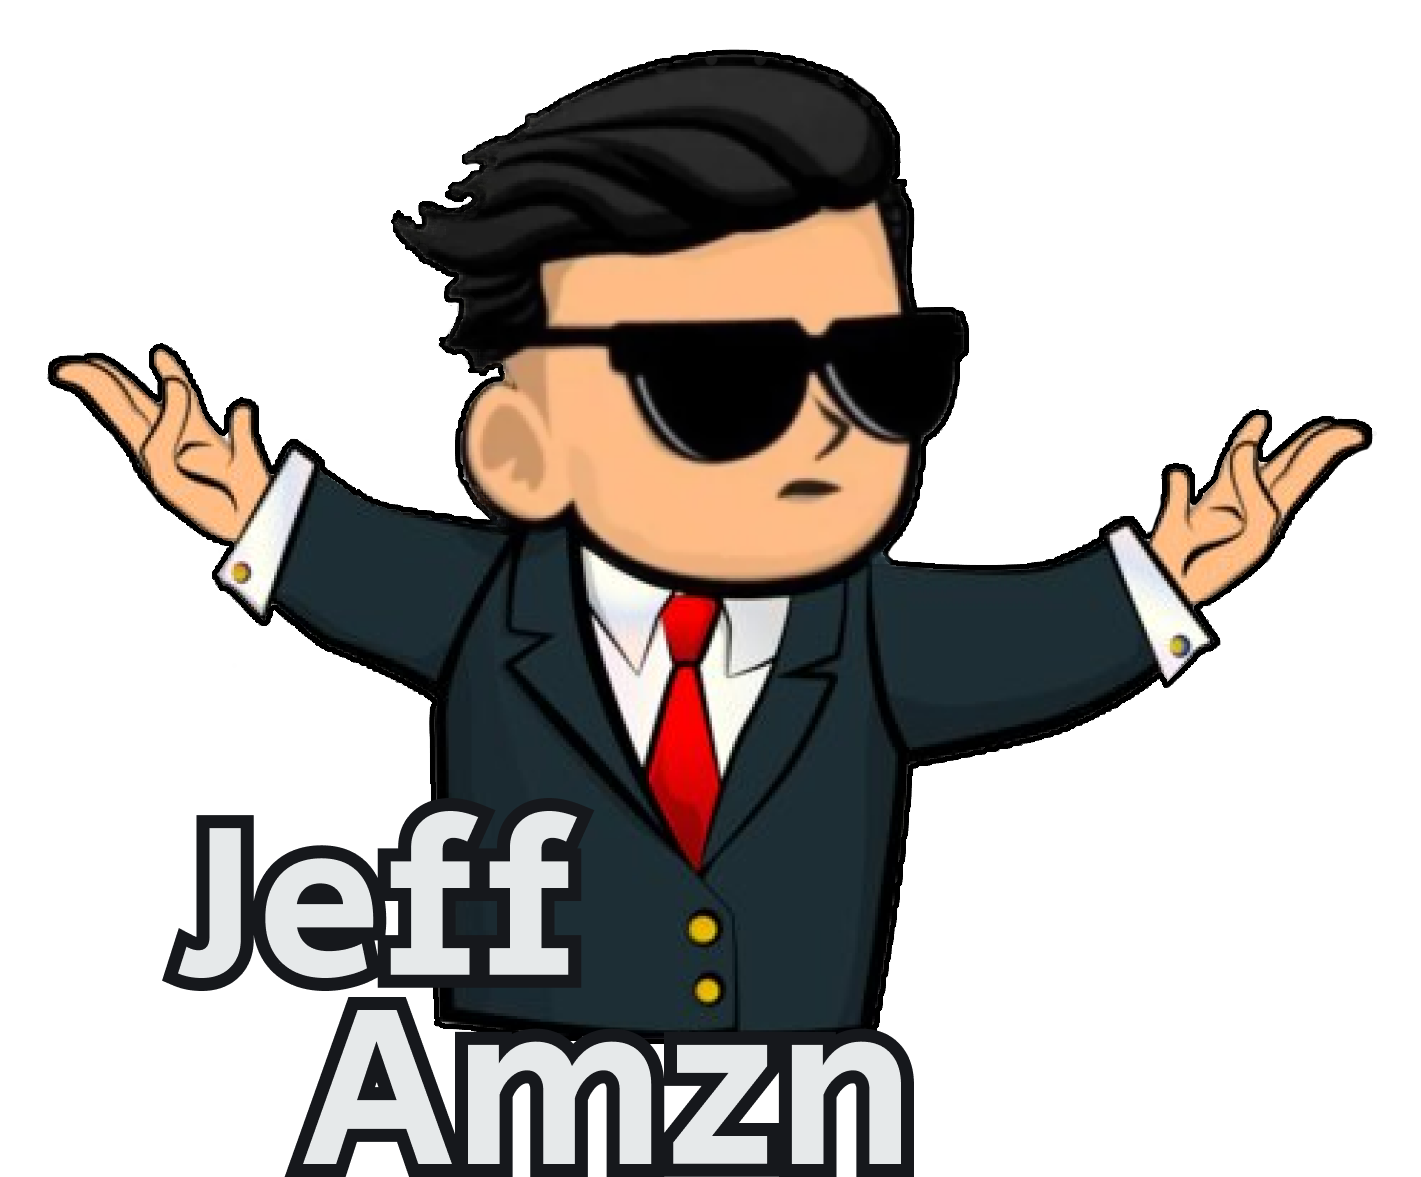
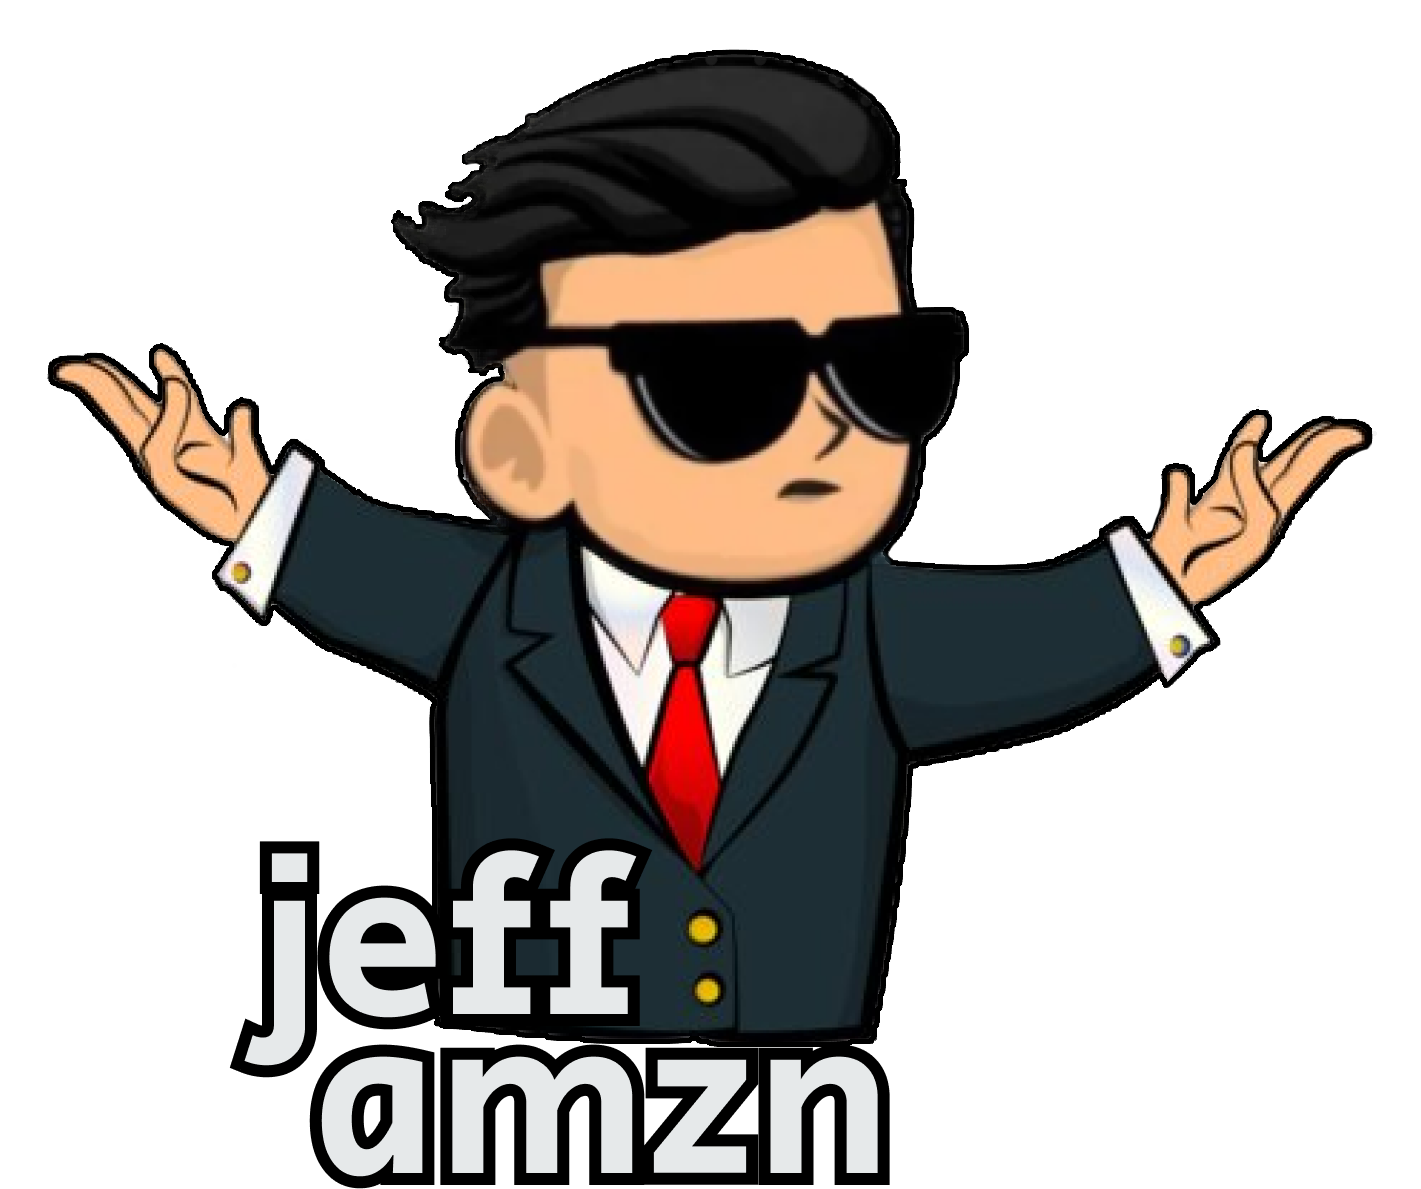
b

diff --git a/public/build/root-IRU57PK3.js b/public/build/root-IRU57PK3.js
@@ -1,0 +1,93 @@
+import {
+  Links,
+  LiveReload,
+  Meta,
+  Outlet,
+  Scripts,
+  ScrollRestoration
+} from "/build/_shared/chunk-TY4X4K57.js";
+import {
+  __toESM,
+  require_jsx_dev_runtime
+} from "/build/_shared/chunk-EETRBLDB.js";
+
+// app/style/global/global.css
+var global_default = "/build/_assets/global-CZYW53AS.css";
+
+// app/root.tsx
+var import_jsx_dev_runtime = __toESM(require_jsx_dev_runtime());
+var links = () => {
+  return [
+    {
+      rel: "icon",
+      href: "/favicon.png",
+      type: "image/png"
+    },
+    {
+      rel: "stylesheet",
+      href: global_default
+    }
+  ];
+};
+var meta = () => ({
+  charset: "utf-8",
+  title: "Jeff Amazon",
+  description: "The email newsletter covering the latest news on how the world works. Get analysis and witty commentary that'll help you develop your world view.",
+  viewport: "width=device-width,initial-scale=1"
+});
+function App() {
+  return /* @__PURE__ */ (0, import_jsx_dev_runtime.jsxDEV)("html", { lang: "en", children: [
+    /* @__PURE__ */ (0, import_jsx_dev_runtime.jsxDEV)("head", { children: [
+      /* @__PURE__ */ (0, import_jsx_dev_runtime.jsxDEV)(Meta, {}, void 0, false, {
+        fileName: "app/root.tsx",
+        lineNumber: 39,
+        columnNumber: 9
+      }, this),
+      /* @__PURE__ */ (0, import_jsx_dev_runtime.jsxDEV)(Links, {}, void 0, false, {
+        fileName: "app/root.tsx",
+        lineNumber: 40,
+        columnNumber: 9
+      }, this)
+    ] }, void 0, true, {
+      fileName: "app/root.tsx",
+      lineNumber: 38,
+      columnNumber: 7
+    }, this),
+    /* @__PURE__ */ (0, import_jsx_dev_runtime.jsxDEV)("body", { children: [
+      /* @__PURE__ */ (0, import_jsx_dev_runtime.jsxDEV)(Outlet, {}, void 0, false, {
+        fileName: "app/root.tsx",
+        lineNumber: 43,
+        columnNumber: 9
+      }, this),
+      /* @__PURE__ */ (0, import_jsx_dev_runtime.jsxDEV)(ScrollRestoration, {}, void 0, false, {
+        fileName: "app/root.tsx",
+        lineNumber: 44,
+        columnNumber: 9
+      }, this),
+      /* @__PURE__ */ (0, import_jsx_dev_runtime.jsxDEV)(Scripts, {}, void 0, false, {
+        fileName: "app/root.tsx",
+        lineNumber: 45,
+        columnNumber: 9
+      }, this),
+      /* @__PURE__ */ (0, import_jsx_dev_runtime.jsxDEV)(LiveReload, {}, void 0, false, {
+        fileName: "app/root.tsx",
+        lineNumber: 46,
+        columnNumber: 9
+      }, this)
+    ] }, void 0, true, {
+      fileName: "app/root.tsx",
+      lineNumber: 42,
+      columnNumber: 7
+    }, this)
+  ] }, void 0, true, {
+    fileName: "app/root.tsx",
+    lineNumber: 37,
+    columnNumber: 5
+  }, this);
+}
+export {
+  App as default,
+  links,
+  meta
+};
+//# sourceMappingURL=/build/root-IRU57PK3.js.map

diff --git a/.netlify/functions-internal/server.js b/.netlify/functions-internal/server.js
@@ -70,8 +70,8 @@ var import_jsx_dev_runtime2 = require("react/jsx-dev-runtime"), links = () => [
   }
 ], meta = () => ({
   charset: "utf-8",
-  title: "The Nantucket",
-  description: "Welcome to Nantucket. Subscribe to our newsletter - it's free!",
+  title: "Jeff Amazon",
+  description: "The email newsletter covering the latest news on how the world works. Get analysis and witty commentary that'll help you develop your world view.",
   viewport: "width=device-width,initial-scale=1"
 });
 function App() {
@@ -132,7 +132,7 @@ __export(routes_exports, {
 });
 
 // public/img/ja.png
-var ja_default = "/build/_assets/ja-2H52DAGT.png";
+var ja_default = "/build/_assets/ja-Z47GSG2C.png";
 
 // app/routes/index.tsx
 var import_jsx_dev_runtime3 = require("react/jsx-dev-runtime");
@@ -153,7 +153,7 @@ function Index() {
 }
 
 // server-assets-manifest:@remix-run/dev/assets-manifest
-var assets_manifest_default = { version: "27c108de", entry: { module: "/build/entry.client-3Z3BMBC7.js", imports: ["/build/_shared/chunk-TY4X4K57.js", "/build/_shared/chunk-EETRBLDB.js"] }, routes: { root: { id: "root", parentId: void 0, path: "", index: void 0, caseSensitive: void 0, module: "/build/root-TCCIF5VU.js", imports: void 0, hasAction: !1, hasLoader: !1, hasCatchBoundary: !1, hasErrorBoundary: !1 }, "routes/index": { id: "routes/index", parentId: "root", path: void 0, index: !0, caseSensitive: void 0, module: "/build/routes/index-YFSIHZOL.js", imports: void 0, hasAction: !1, hasLoader: !1, hasCatchBoundary: !1, hasErrorBoundary: !1 } }, cssBundleHref: void 0, url: "/build/manifest-27C108DE.js" };
+var assets_manifest_default = { version: "8dc09d3c", entry: { module: "/build/entry.client-3Z3BMBC7.js", imports: ["/build/_shared/chunk-TY4X4K57.js", "/build/_shared/chunk-EETRBLDB.js"] }, routes: { root: { id: "root", parentId: void 0, path: "", index: void 0, caseSensitive: void 0, module: "/build/root-IRU57PK3.js", imports: void 0, hasAction: !1, hasLoader: !1, hasCatchBoundary: !1, hasErrorBoundary: !1 }, "routes/index": { id: "routes/index", parentId: "root", path: void 0, index: !0, caseSensitive: void 0, module: "/build/routes/index-VFHACZYK.js", imports: void 0, hasAction: !1, hasLoader: !1, hasCatchBoundary: !1, hasErrorBoundary: !1 } }, cssBundleHref: void 0, url: "/build/manifest-8DC09D3C.js" };
 
 // server-entry-module:@remix-run/dev/server-build
 var assetsBuildDirectory = "public/build", future = { unstable_cssModules: !1, unstable_cssSideEffectImports: !1, unstable_vanillaExtract: !1, v2_errorBoundary: !1, v2_meta: !1, v2_routeConvention: !1 }, publicPath = "/build/", entry = { module: entry_server_exports }, routes = {

diff --git a/public/build/routes/index-VFHACZYK.js b/public/build/routes/index-VFHACZYK.js
@@ -1,0 +1,29 @@
+import {
+  __toESM,
+  require_jsx_dev_runtime
+} from "/build/_shared/chunk-EETRBLDB.js";
+
+// public/img/ja.png
+var ja_default = "/build/_assets/ja-Z47GSG2C.png";
+
+// app/routes/index.tsx
+var import_jsx_dev_runtime = __toESM(require_jsx_dev_runtime());
+function Index() {
+  return /* @__PURE__ */ (0, import_jsx_dev_runtime.jsxDEV)("div", { className: "container", children: /* @__PURE__ */ (0, import_jsx_dev_runtime.jsxDEV)("div", { className: "inner-container", children: /* @__PURE__ */ (0, import_jsx_dev_runtime.jsxDEV)("img", { src: ja_default }, void 0, false, {
+    fileName: "app/routes/index.tsx",
+    lineNumber: 7,
+    columnNumber: 9
+  }, this) }, void 0, false, {
+    fileName: "app/routes/index.tsx",
+    lineNumber: 6,
+    columnNumber: 7
+  }, this) }, void 0, false, {
+    fileName: "app/routes/index.tsx",
+    lineNumber: 5,
+    columnNumber: 5
+  }, this);
+}
+export {
+  Index as default
+};
+//# sourceMappingURL=/build/routes/index-VFHACZYK.js.map

diff --git a/public/build/manifest-8DC09D3C.js b/public/build/manifest-8DC09D3C.js
@@ -1,0 +1,1 @@
+window.__remixManifest={"version":"8dc09d3c","entry":{"module":"/build/entry.client-3Z3BMBC7.js","imports":["/build/_shared/chunk-TY4X4K57.js","/build/_shared/chunk-EETRBLDB.js"]},"routes":{"root":{"id":"root","path":"","module":"/build/root-IRU57PK3.js","hasAction":false,"hasLoader":false,"hasCatchBoundary":false,"hasErrorBoundary":false},"routes/index":{"id":"routes/index","parentId":"root","index":true,"module":"/build/routes/index-VFHACZYK.js","hasAction":false,"hasLoader":false,"hasCatchBoundary":false,"hasErrorBoundary":false}},"url":"/build/manifest-8DC09D3C.js"};
